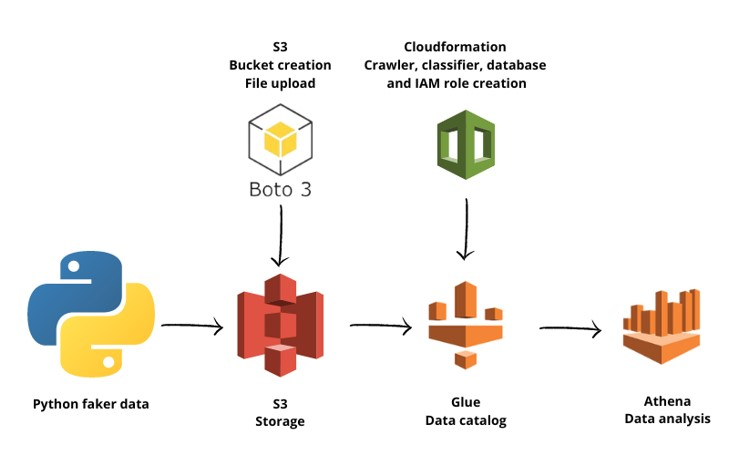
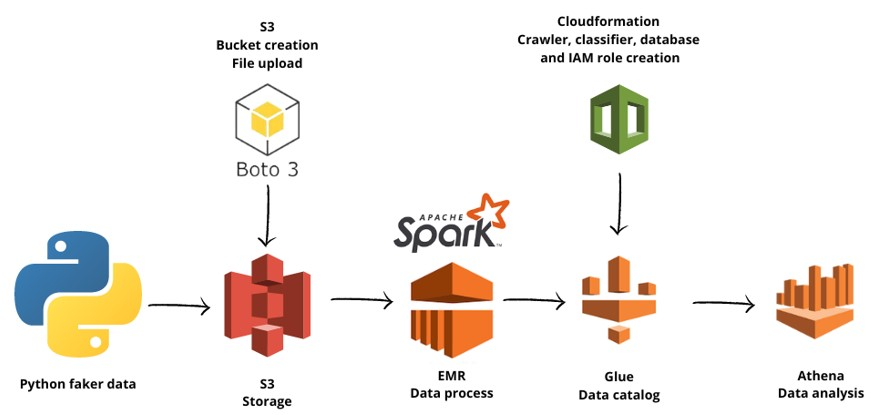
att readme

diff --git a/readme.md b/readme.md
@@ -4,7 +4,7 @@
 
 ## 1. Project Description
 
-This is the first required project in a total o of three to reach the certificate at How Data Engineer Bootcamp. The main objective here is to build an ETL pipeline that create fake data and extracts this data from the local machine and save in S3 using JSON or CSV format, crawl the data using GLUE crawlers and use ATHENA to visualize the data.
+This is the first required project in a total o of three to reach the certificate at How Data Engineer Bootcamp. The main objective here is to build an ETL pipeline that create fake data and extracts this data from the local machine and save in S3 using JSON or CSV format, process the data with Spark, crawl the data using GLUE crawlers and use ATHENA to visualize the data.
 
 In the figure bellow you can see the arquitecture of the proposed solution.
 
